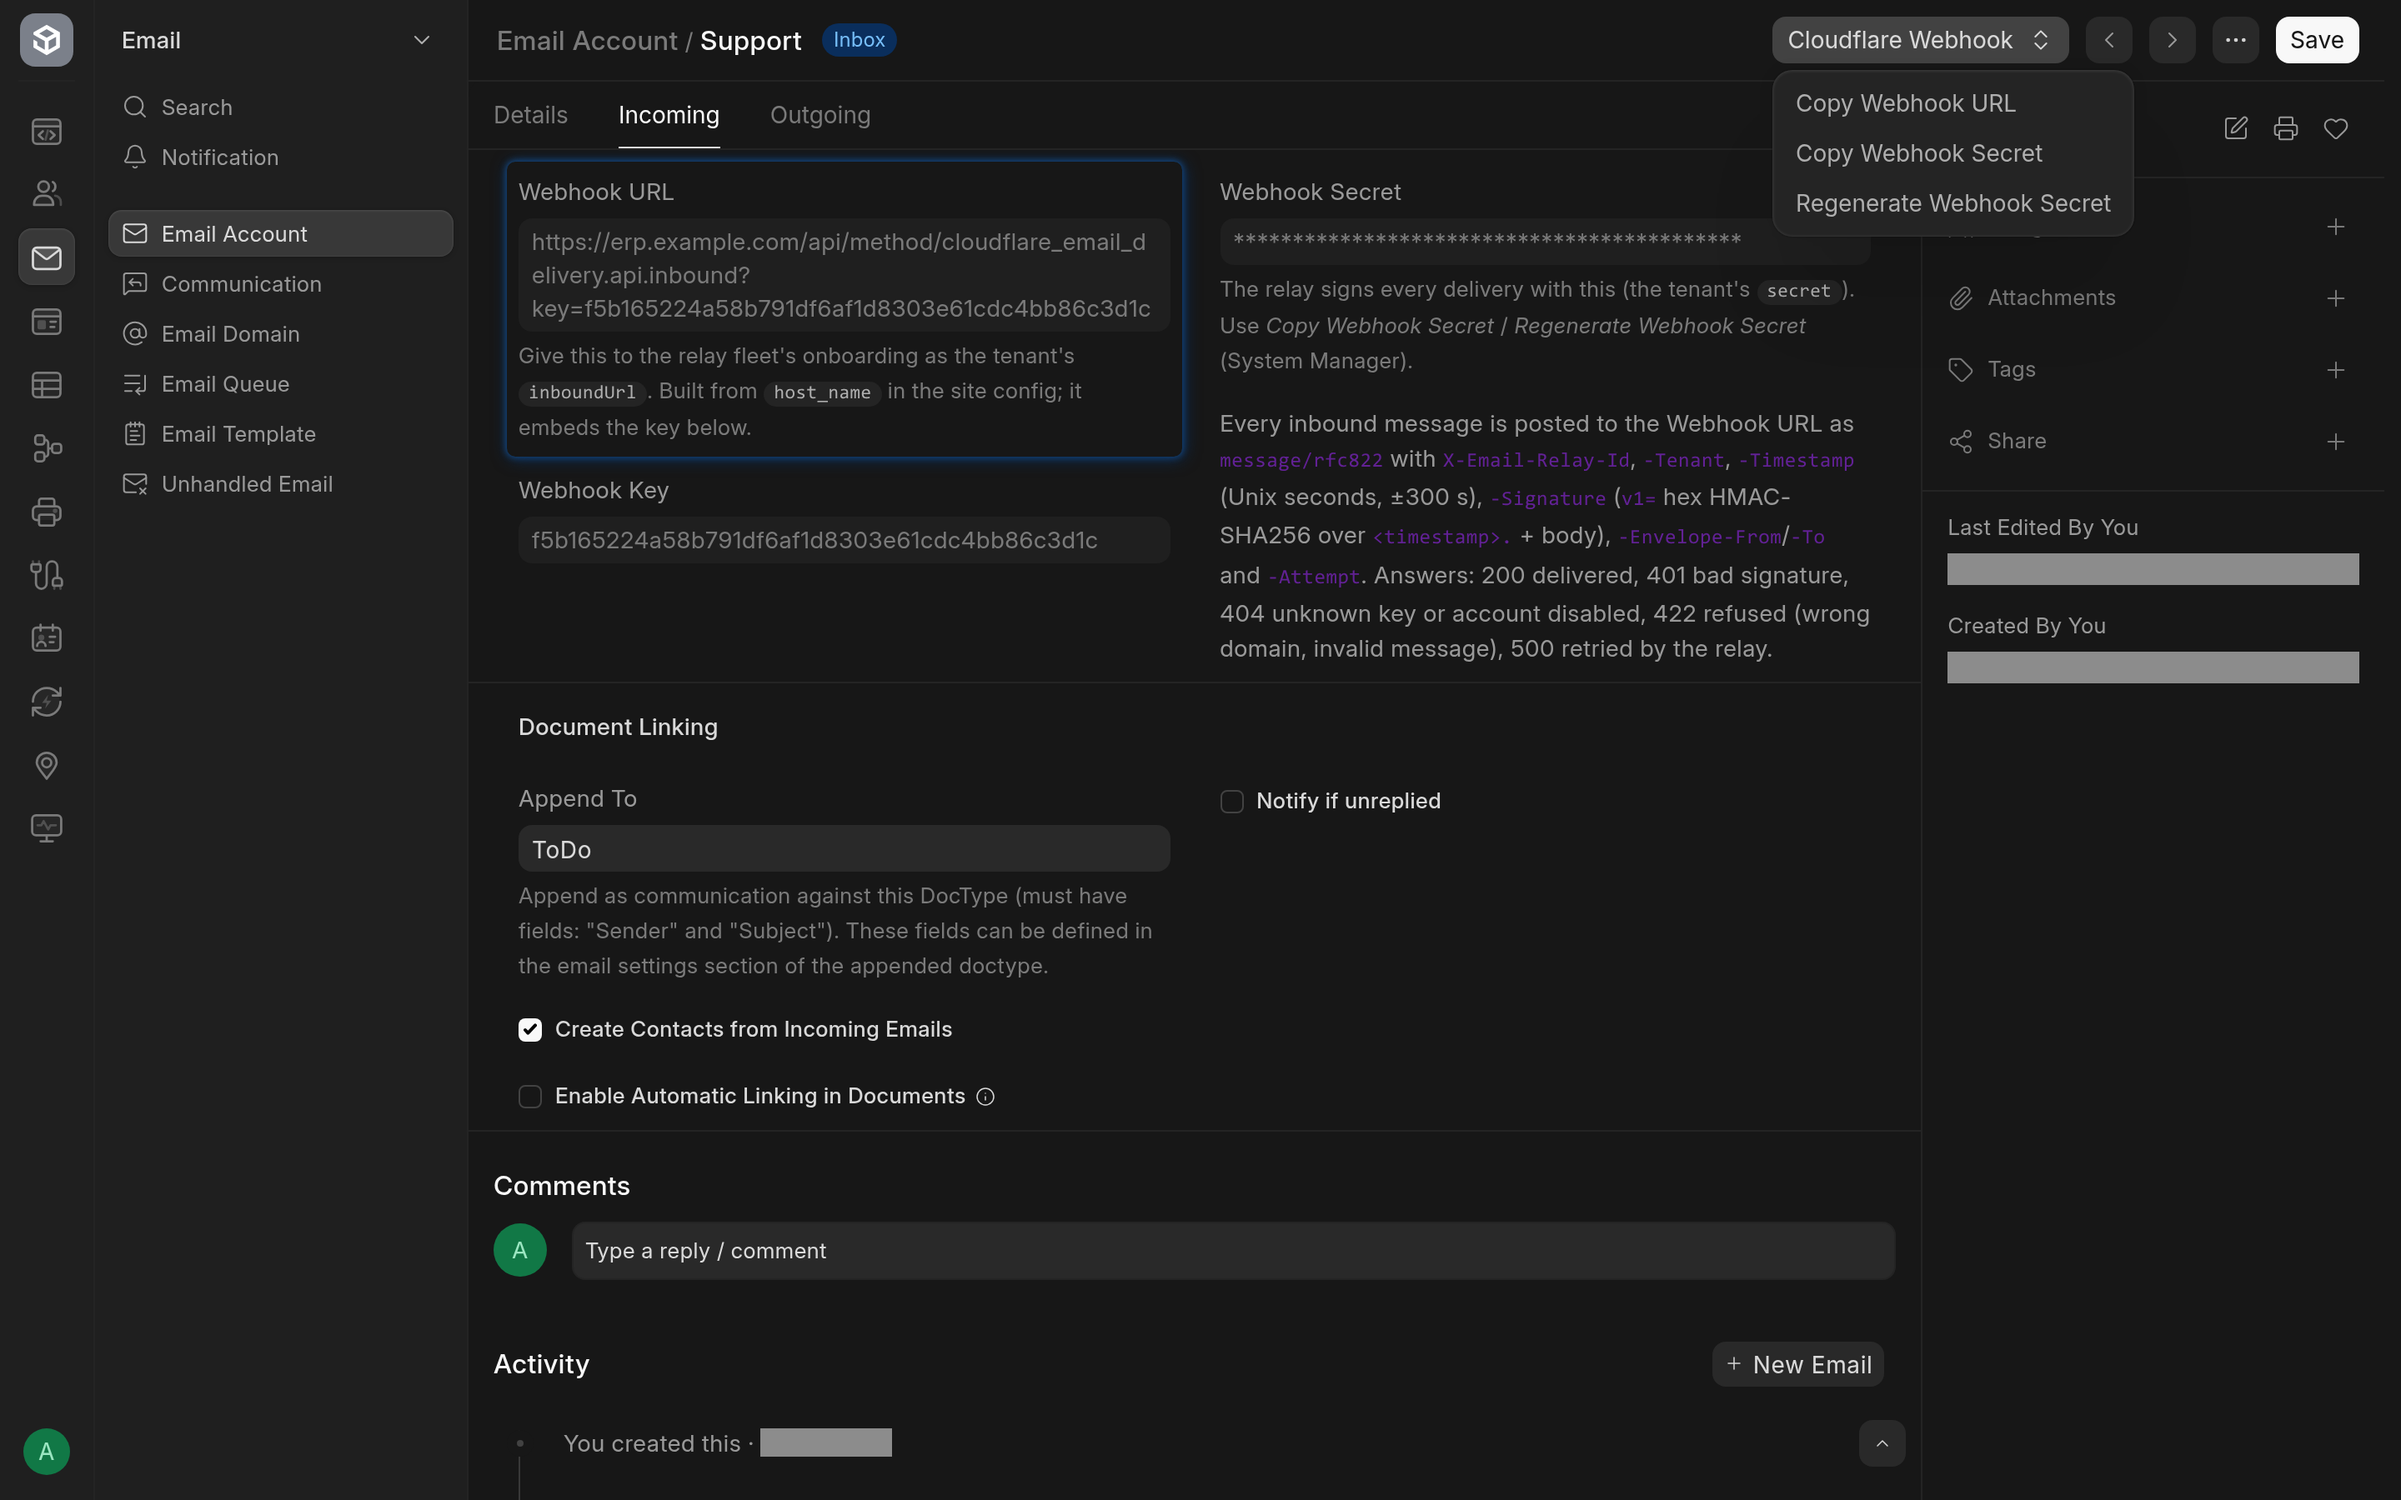
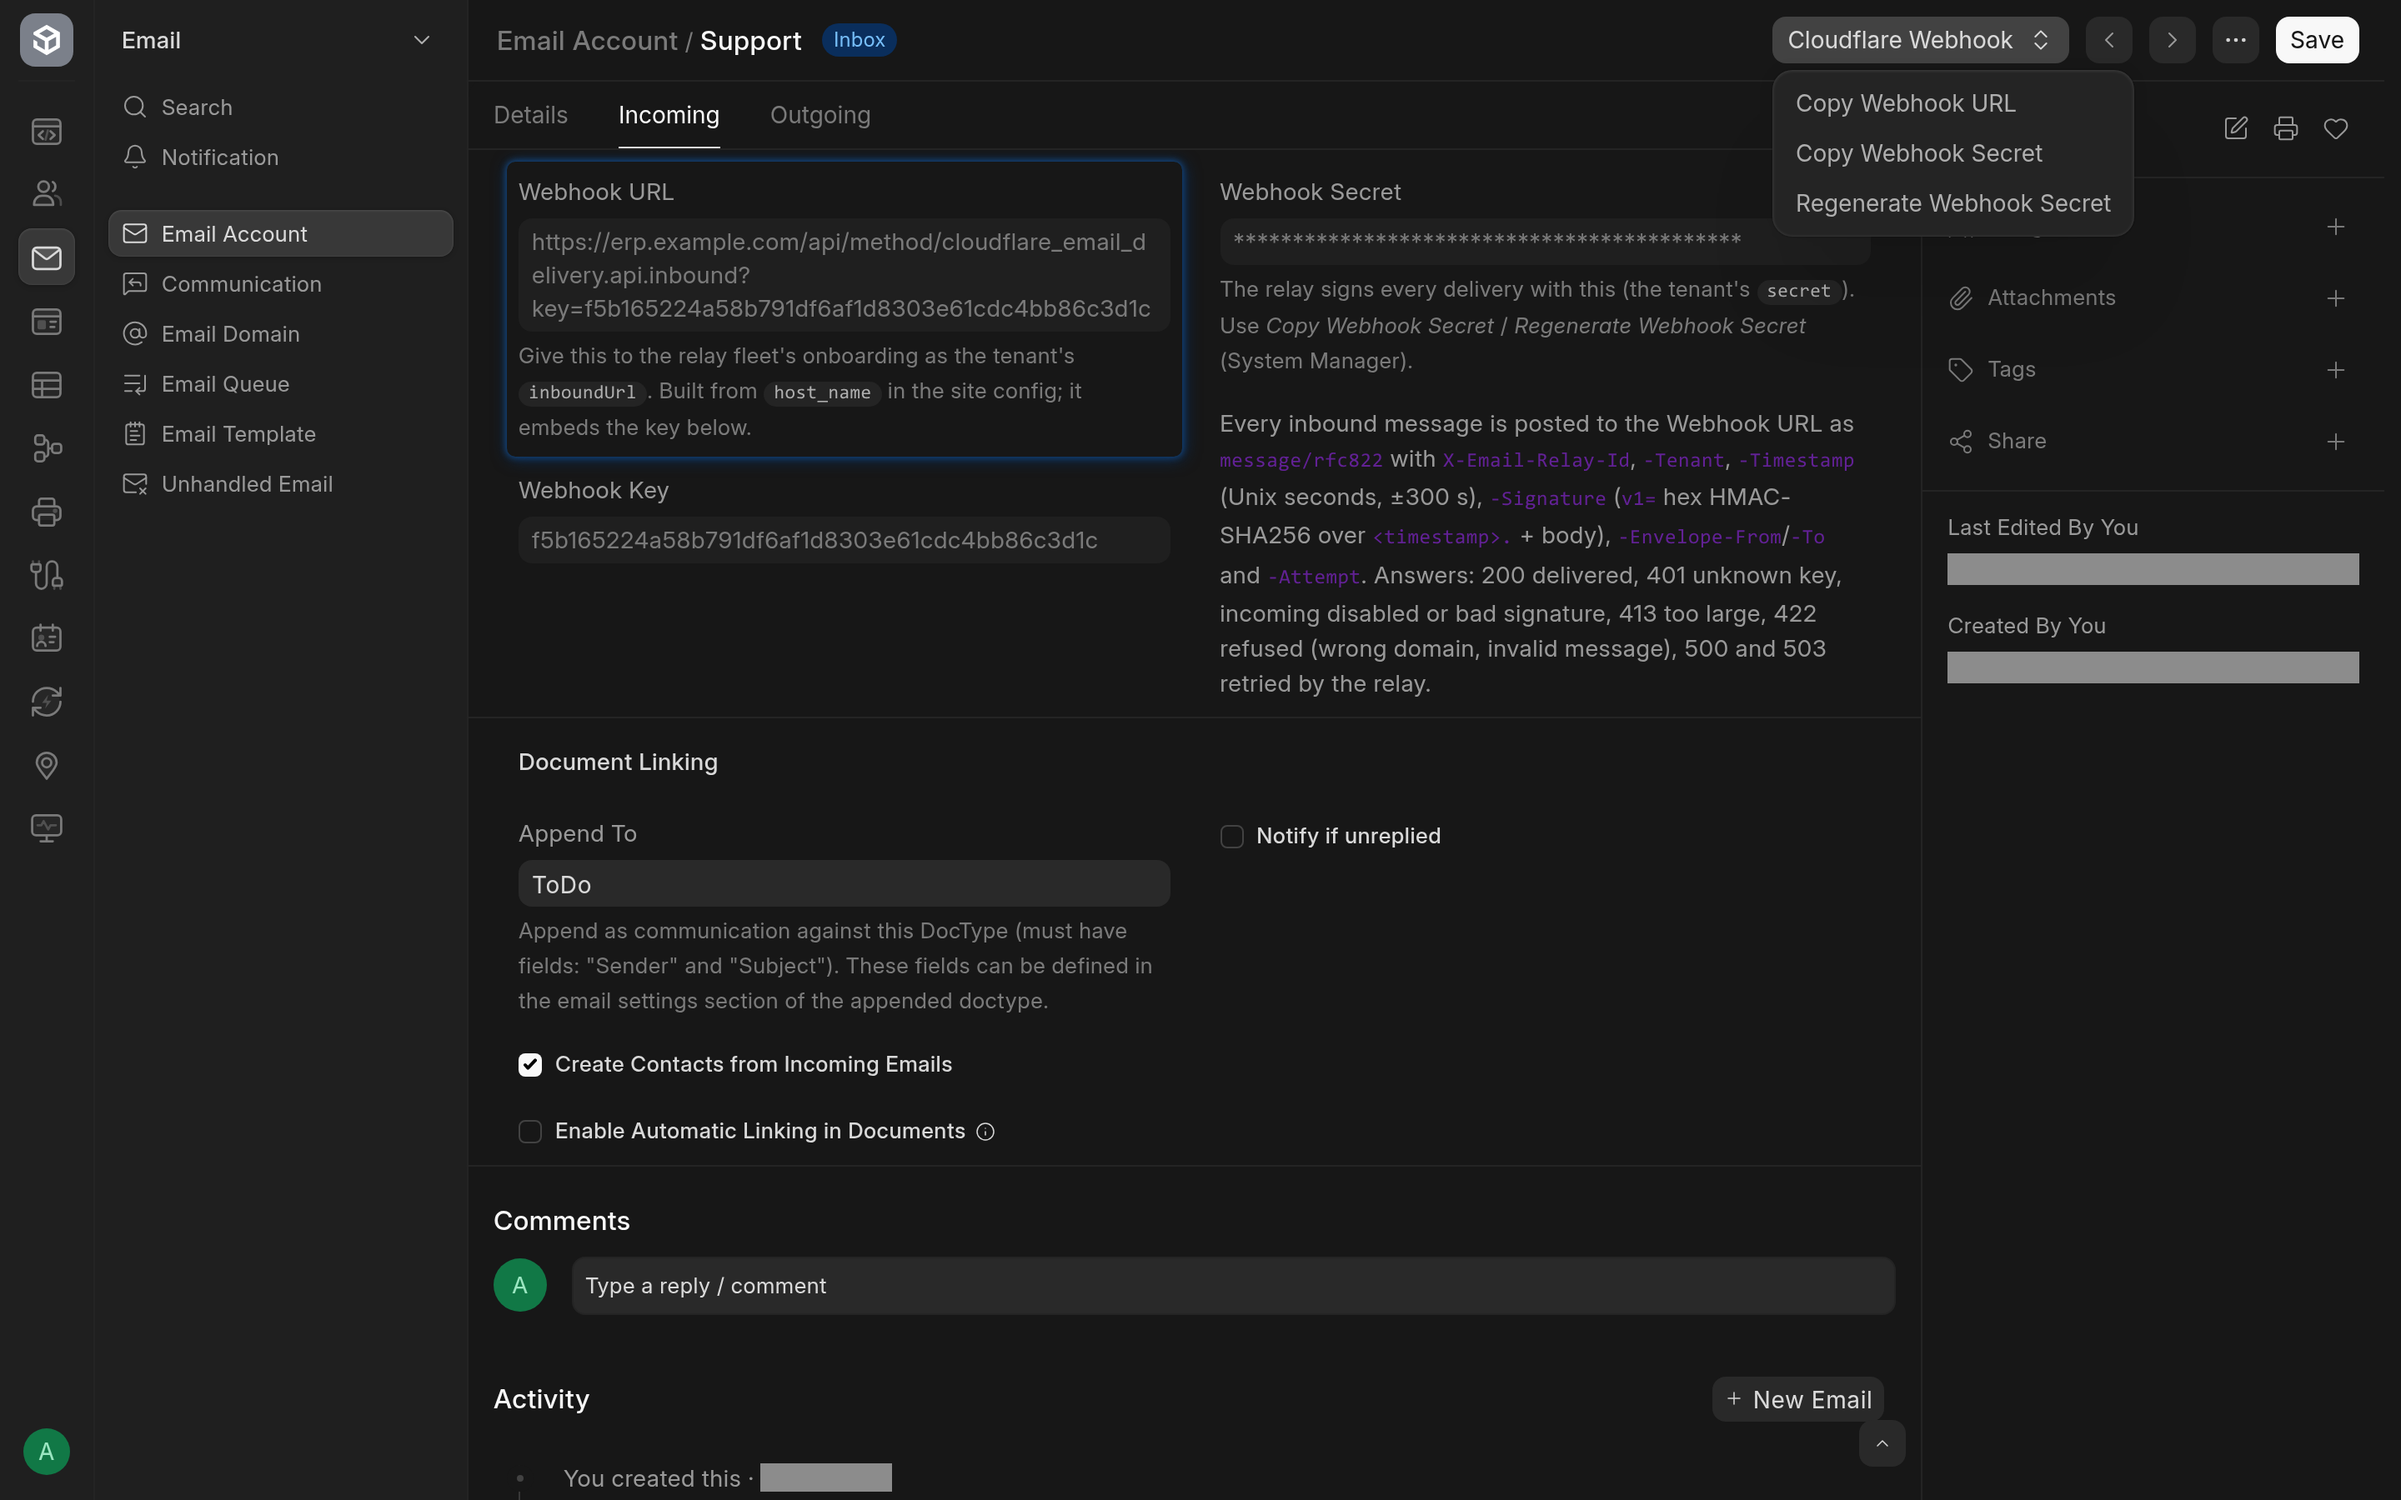
fix(email-account): list the webhook answers the endpoint really gives
The help under the webhook fields on the Email Account form said an
unknown key or a disabled account got a 404, and left out 413 and 503.
api.inbound answers 401 for an unknown key, a disabled account and a bad
signature alike, 413 for an oversized message and 503 when the relay user
is missing. The help now lists exactly the codes the endpoint returns,
and a test keeps the two in step.

Claude-Session: https://claude.ai/code/session_01SvdEeMiewirZ3ifFoUix5F

diff --git a/cloudflare_email_delivery/tests/test_inbound.py b/cloudflare_email_delivery/tests/test_inbound.py
@@ -3,7 +3,9 @@
 """The inbound webhook, called in-process with a fake request (the fast path) and
 twice through the real WSGI app (the plumbing: guest POST, raw bytes, CSRF)."""
 
+import inspect
 import json
+import re
 from threading import Thread
 from typing import cast
 from unittest.mock import PropertyMock, patch
@@ -275,6 +277,17 @@ class TestInbound(IntegrationTestCase):
 		self.assertTrue(disabled.cf_webhook_key)
 		status, _payload = self.post(body, key=disabled.cf_webhook_key)
 		self.assertEqual(status, 401)
+
+	def test_form_help_lists_the_codes_the_endpoint_answers(self):
+		# The help under the webhook fields on the Email Account form once said an unknown
+		# key or a disabled account got a 404; both get the 401 above.
+		help_html = frappe.db.get_value(
+			"Custom Field", {"dt": "Email Account", "fieldname": "cf_webhook_help"}, "options"
+		)
+		answers = help_html.split("Answers:", 1)[1]
+		answered = {int(code) for code in re.findall(r"_respond\((\d{3})", inspect.getsource(api))}
+		self.assertEqual({int(code) for code in re.findall(r"\b\d{3}\b", answers)}, answered)
+		self.assertIn("401 unknown key, incoming disabled or bad signature", answers)
 
 	# -- 413 / 503 -------------------------------------------------------------
 

diff --git a/README.md b/README.md
@@ -100,7 +100,6 @@ You need a Cloudflare account on the Workers Paid plan, with the domain onboarde
 - Reply matching after Cloudflare's `Message-ID` rewrite relies on the replying client carrying `References`, which every mainstream client does.
 - Cloudflare's limits apply: 5 MiB per message, 50 recipients, and 20 custom headers of at most 2 KB each. Headers outside Cloudflare's allow-list (`Disposition-Notification-To` and others) are dropped.
 - Bcc recipients get their copy but are not listed anywhere in the delivered message, because Frappe sends each recipient a copy of its own.
-- The help text under the webhook fields on the Email Account form says an unknown key or a disabled account gets a 404; the endpoint answers 401 for both, as the [webhook contract](docs/README.md#the-webhook-contract) says.
 
 <!-- frappe-nix:begin support -->
 

diff --git a/docs/README.md b/docs/README.md
@@ -100,8 +100,6 @@ creates the user and resets it to that shape; nothing runs as Administrator.
   Cloudflare's allow-list (`Disposition-Notification-To`, …) are dropped.
 - Bcc'd recipients receive their copy but are not listed anywhere in the delivered message
   (Frappe sends each recipient their own copy).
-- The help text under the webhook fields on the Email Account form says an unknown key or a
-  disabled account gets a `404`; the endpoint answers `401` for both, as the table above says.
 
 ## Development
 
